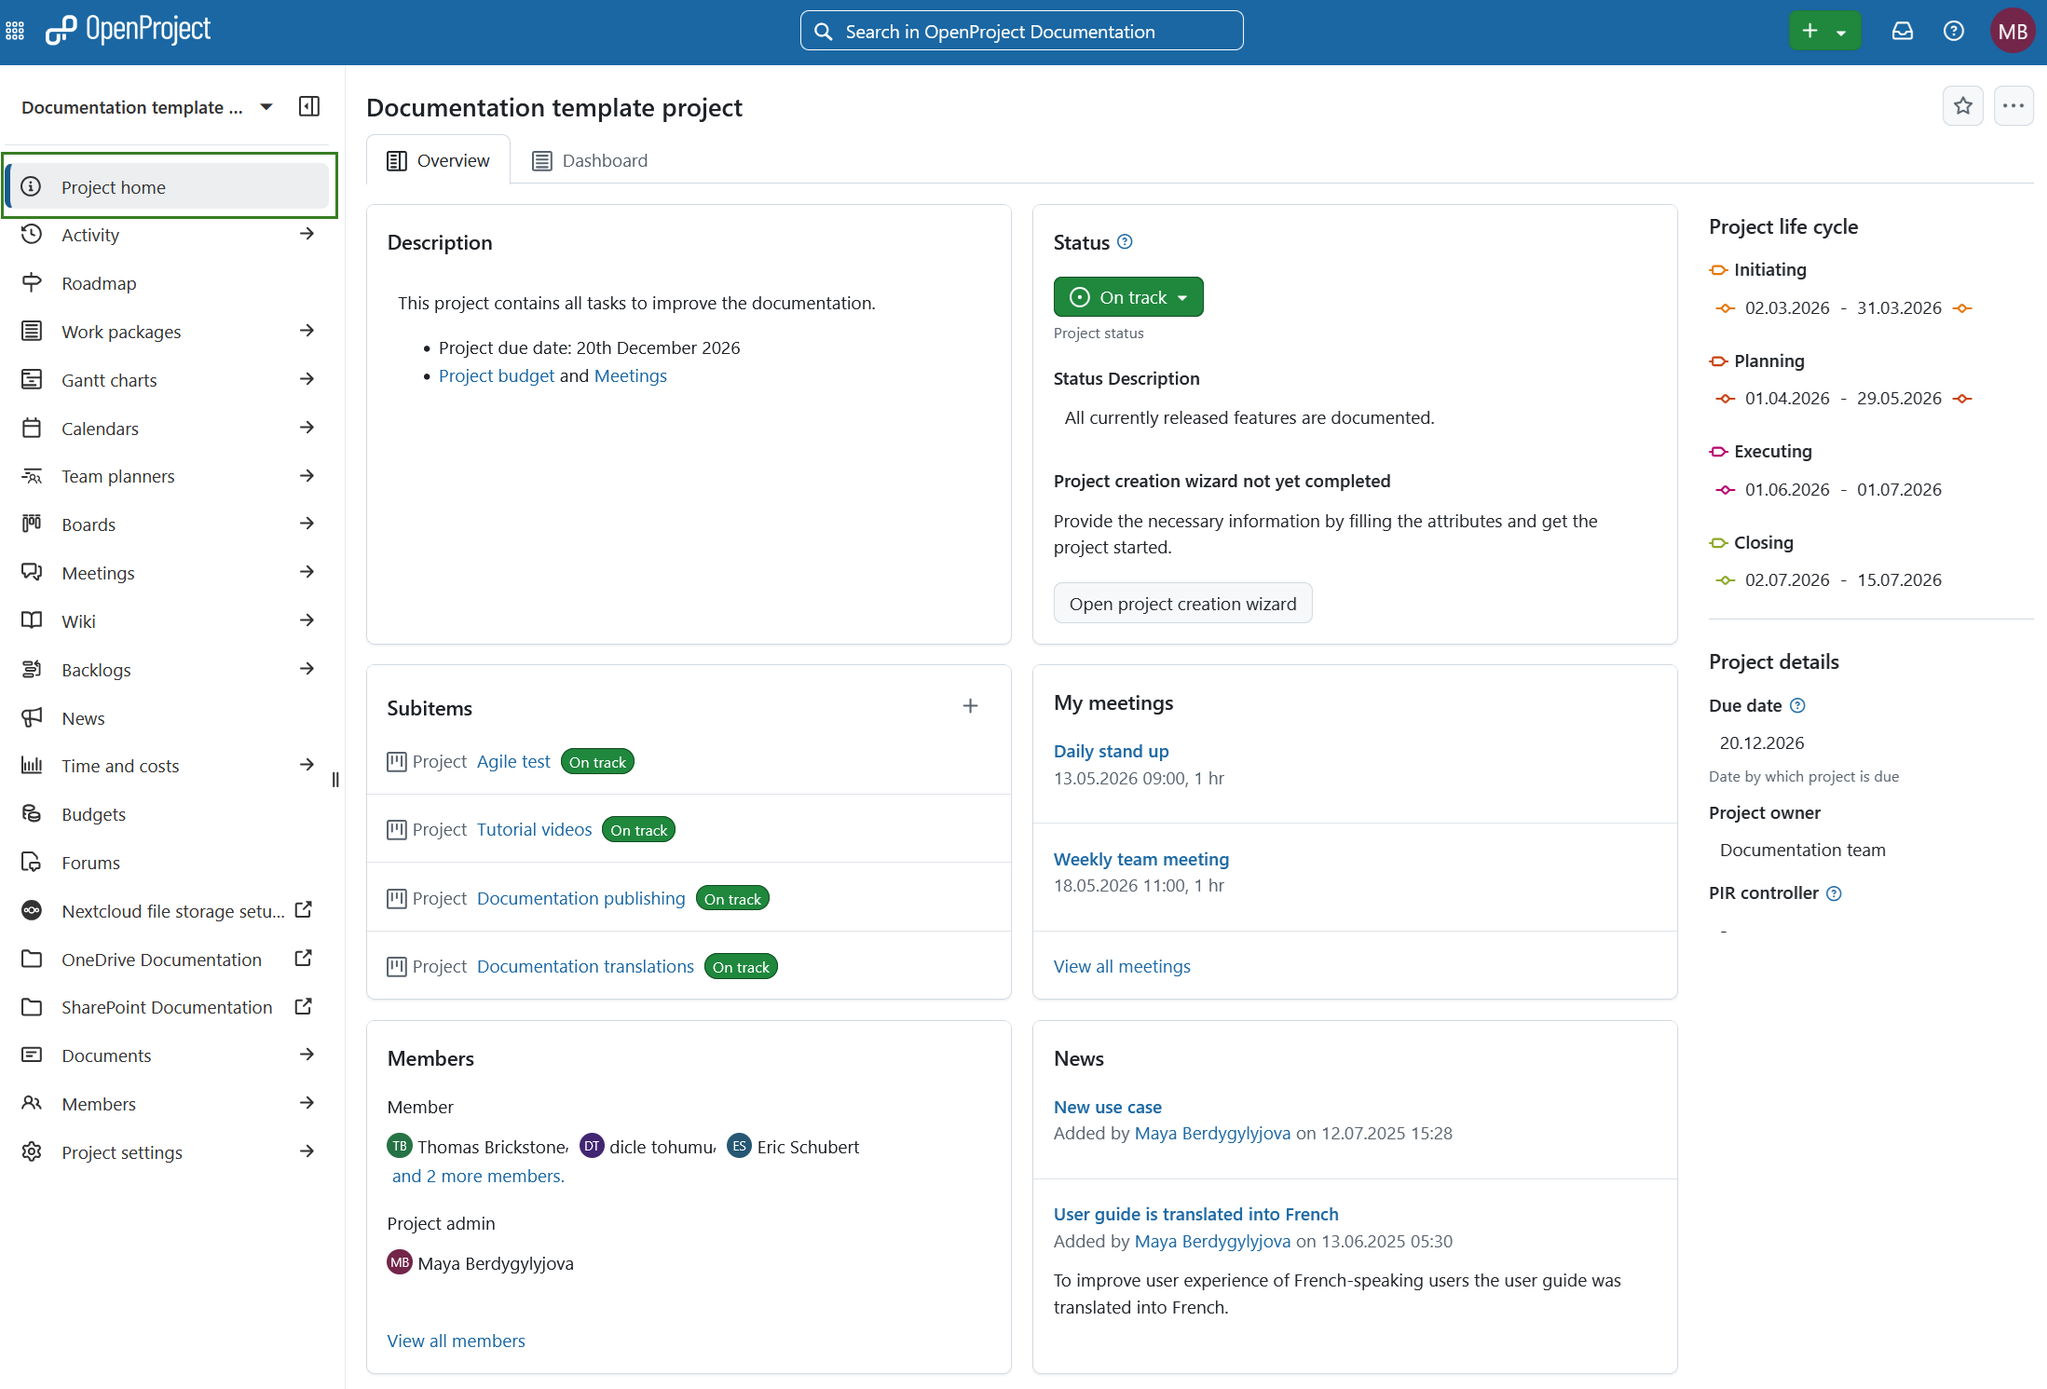
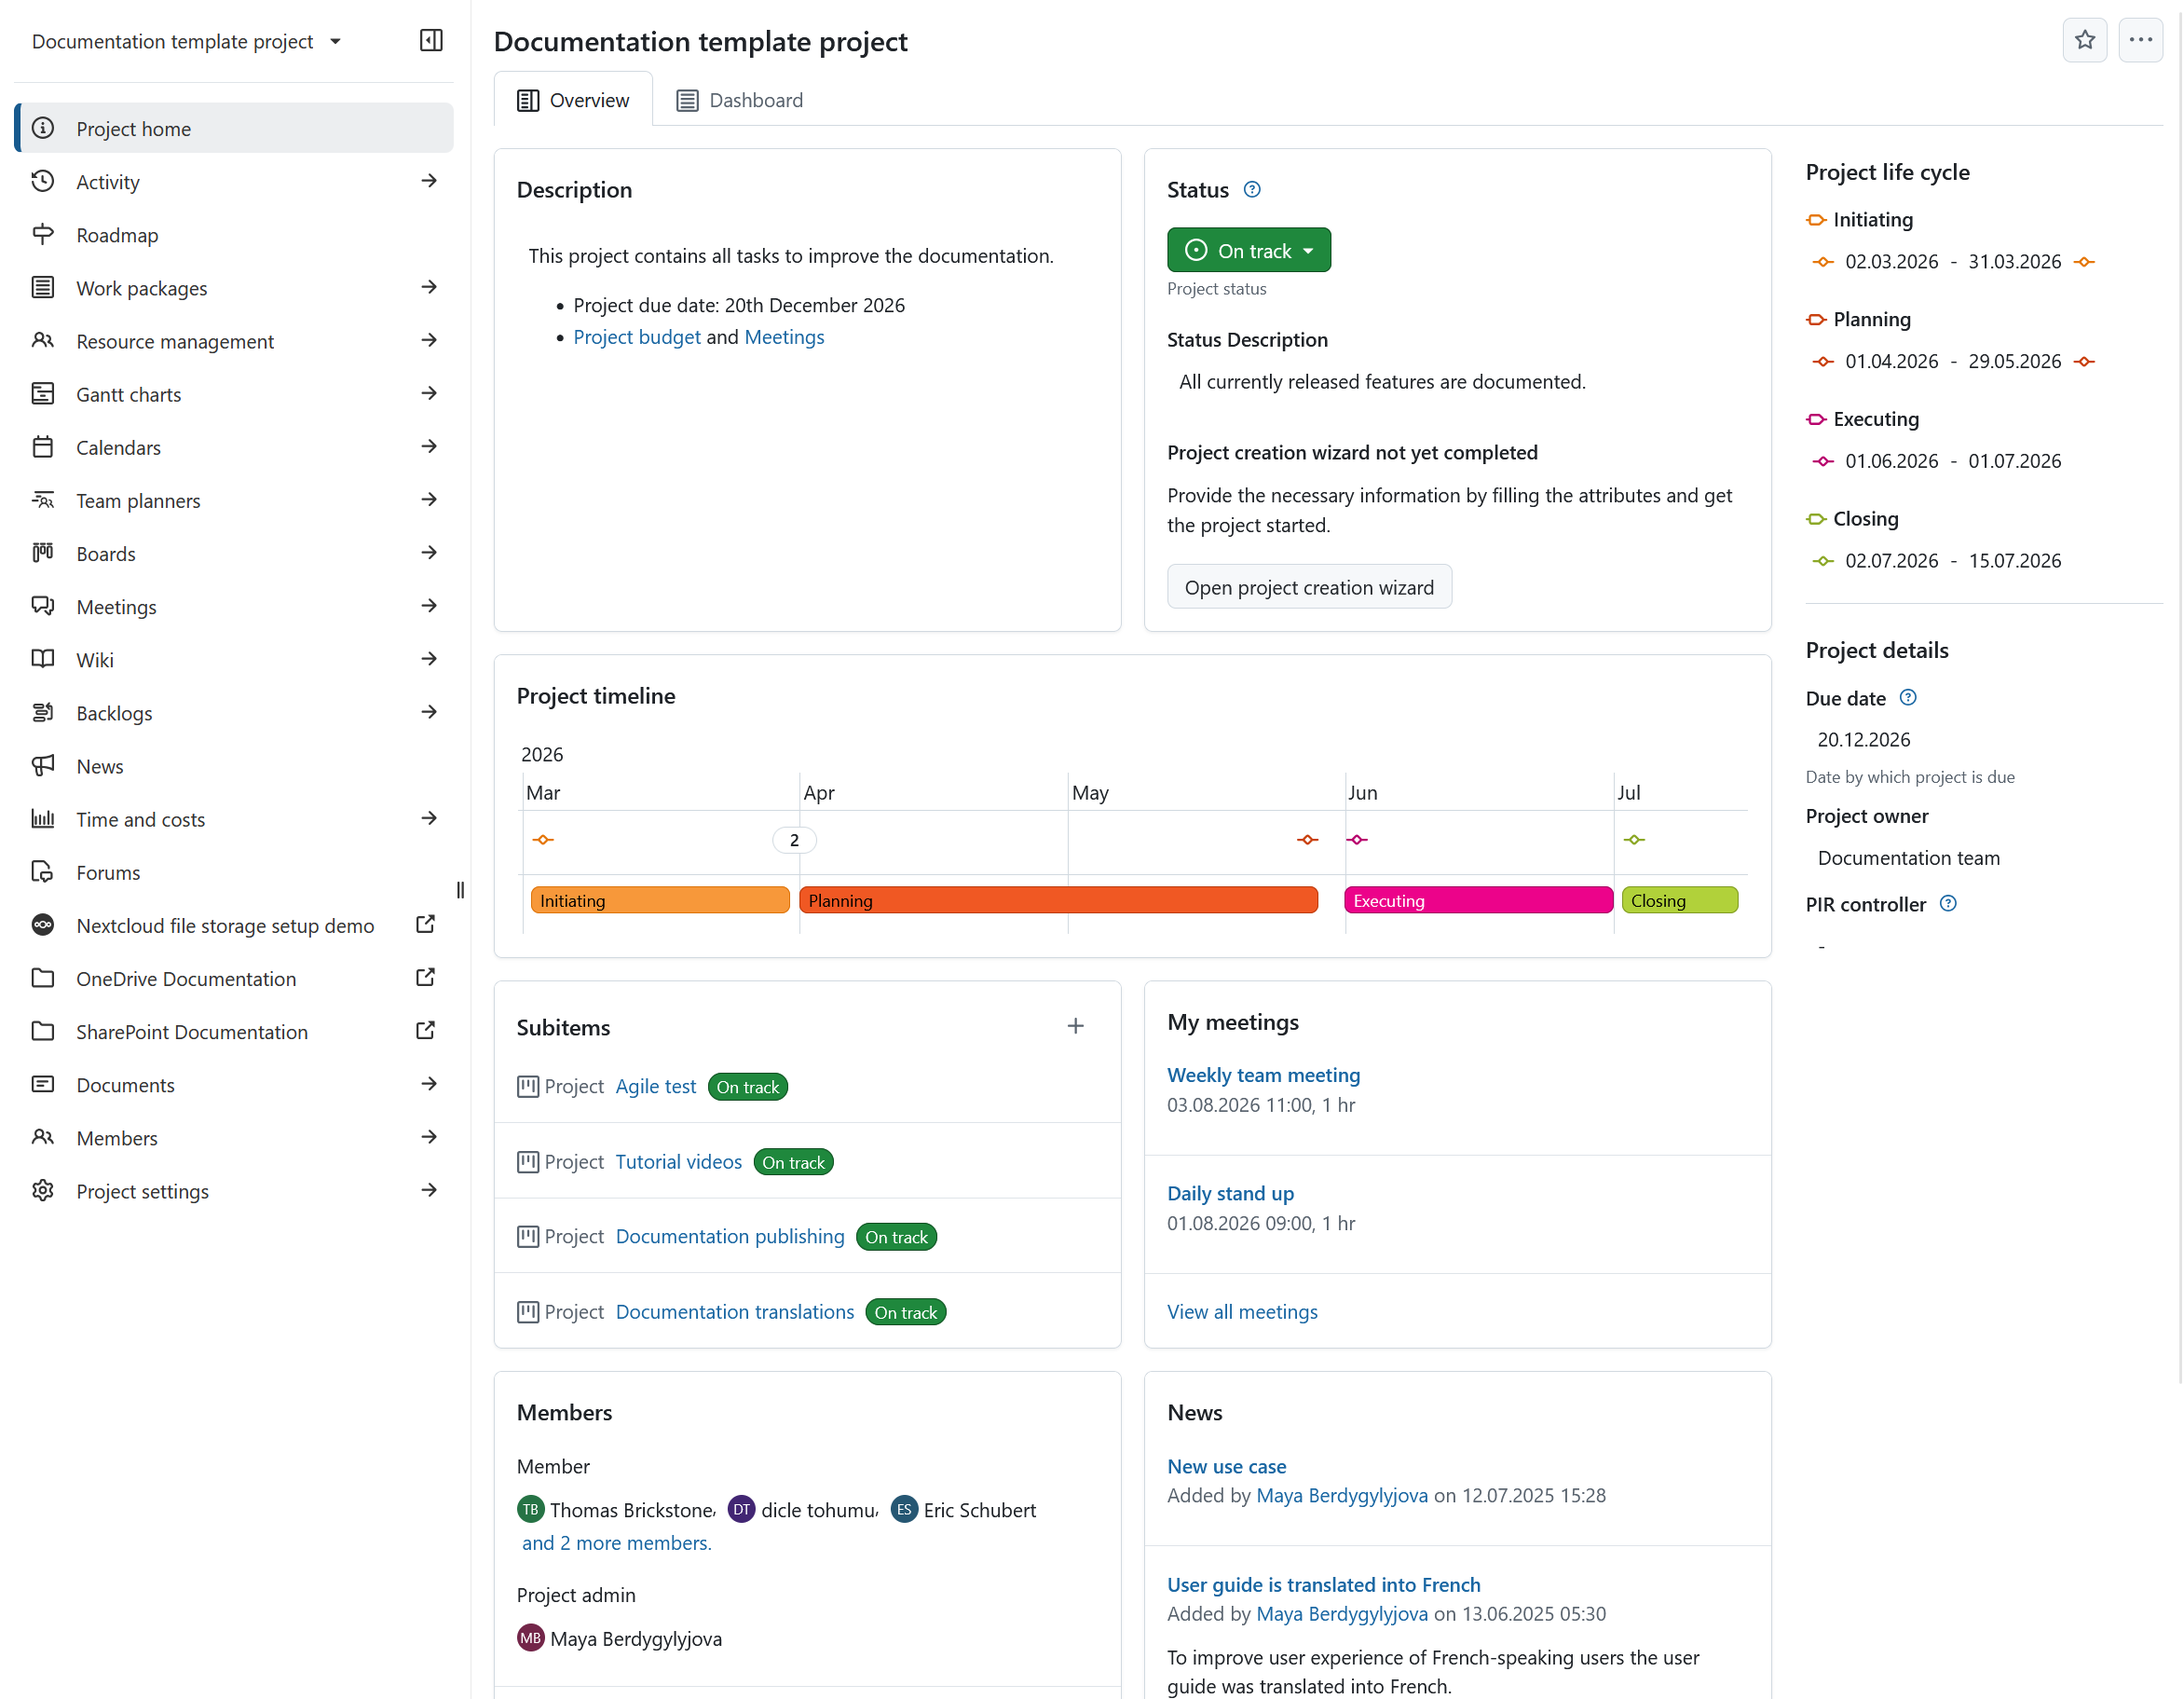
update

diff --git a/docs/user-guide/projects/project-home/project-attributes/README.md b/docs/user-guide/projects/project-home/project-attributes/README.md
@@ -28,7 +28,7 @@ Project attributes are always grouped in sections.
 
 To edit the value of any visible project attribute, simply click on that value. For most attributes, you can edit the value directly in place.
 
-Depending on the field type, changes are saved differently. For example, text fields can be confirmed with Enter or canceled with Escape, while checkboxes are saved automatically when changed.
+Depending on the field type, changes are saved differently. For example, text fields can be confirmed with Enter or cancelled with Escape, while checkboxes are saved automatically when changed.
 
 ![Inline edit of a project attribute on project overview page in OpenProject](openproject_user_guide_project_overview_project_attributes_section_edit_inline.png)
 

diff --git a/docs/user-guide/projects/project-home/README.md b/docs/user-guide/projects/project-home/README.md
@@ -25,9 +25,9 @@ The project home page is a centralized overview page that displays all essential
 
 You can access the project overview by navigating to **Project home** in the project menu on the left.
 
-![Project overview page for a specific project in OpenProject](openproject_user_guide_project_home_page.png)
+![Project overview page for a specific project in OpenProject](openproject_user_guide_project_new_home_page.png)
 
-![Continuation of project overview page for a specific project in OpenProject](openproject_user_guide_project_home_page_continuation.png)
+
 
 On the project overview page you will see the following sections: 
 
